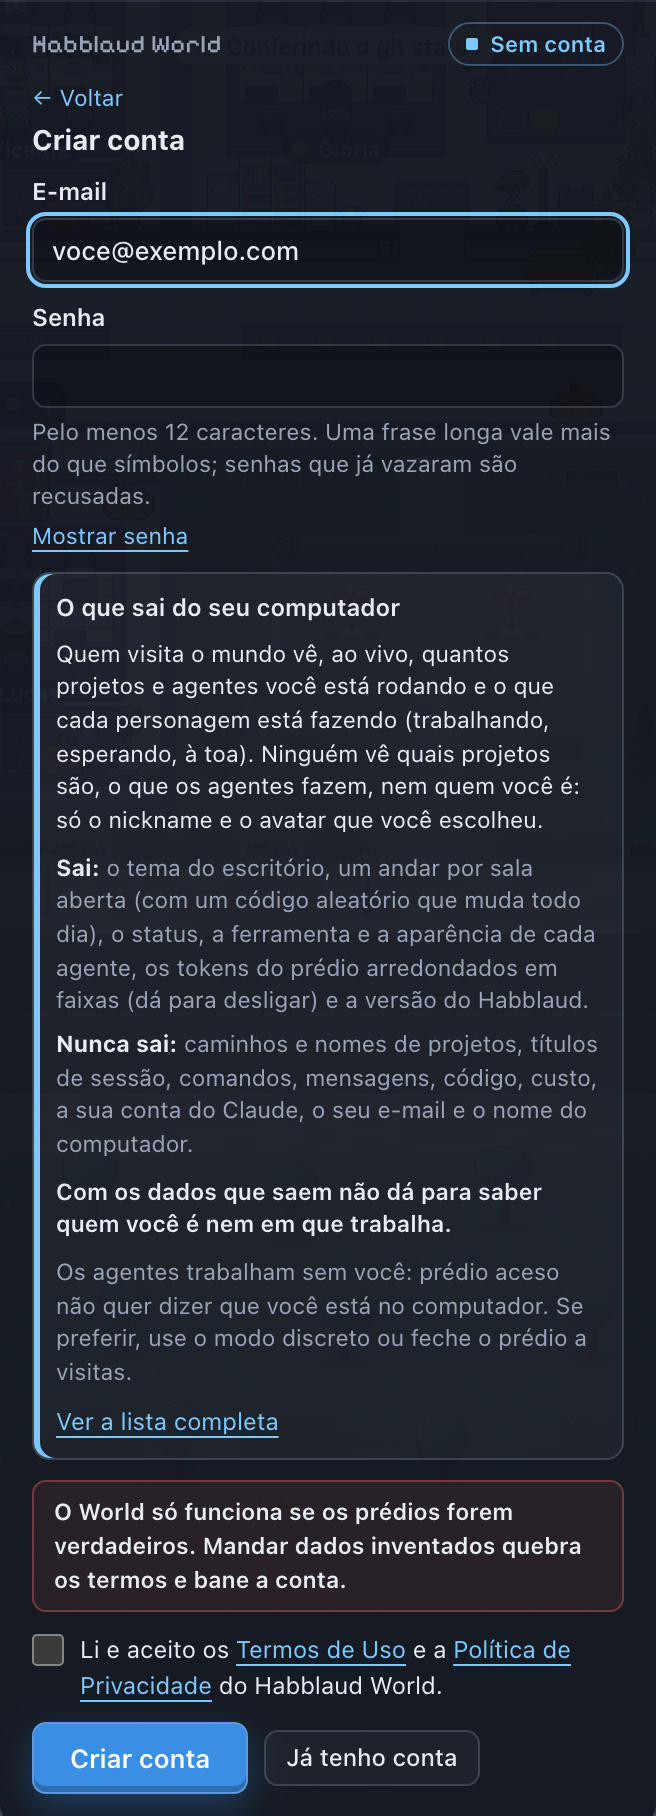
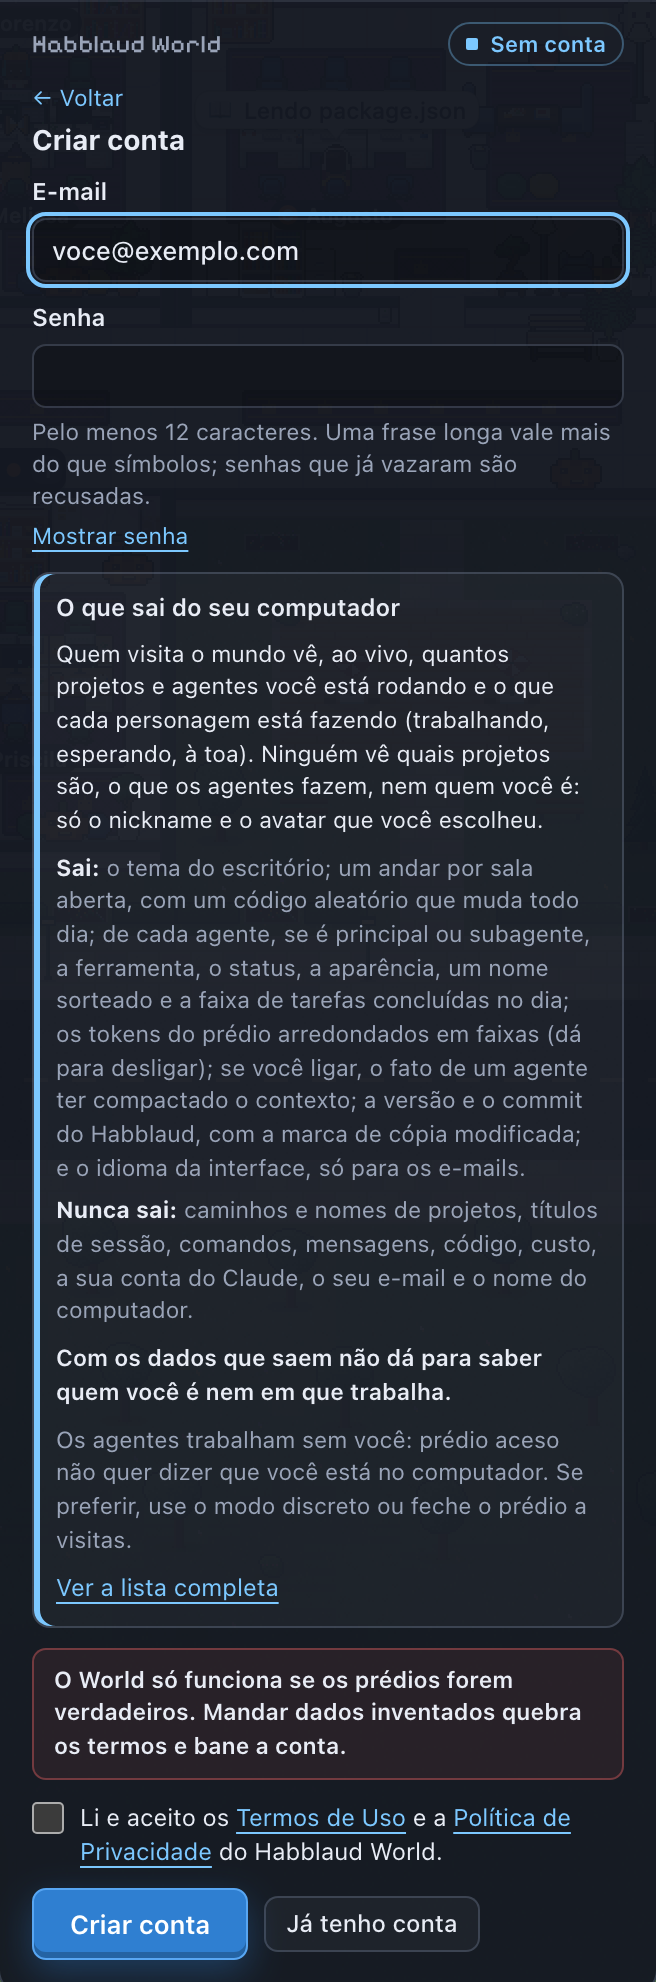
World: resumo de privacidade com tudo o que sai
A linha "Sai:" da tela do cadastro (ao lado do aceite dos termos) passa a listar tudo o que a seção 3.1 do plano
manda: se cada agente é principal ou subagente, o nome sorteado, a faixa de tarefas do dia, a compactação
(opcional), o commit do build com a marca de cópia modificada e o idioma da interface (só para os e-mails).
Captura do cadastro refeita.

Claude-Session: https://claude.ai/code/session_0184odBfMtHbNdi3CwshGHuK

Changed region(s): [[0.0305, 0.0, 0.9756, 1.0], [0.7012, 0.0, 0.9451, 0.0308], [0.2439, 0.0, 0.3354, 0.0308]]

diff --git a/shared/locales/fr.ts b/shared/locales/fr.ts
@@ -2676,7 +2676,7 @@ export const FR: Readonly<Record<string, string>> = {
   "O que sai do seu computador": "Ce qui quitte votre ordinateur",
   "Quem visita o mundo vê, ao vivo, quantos projetos e agentes você está rodando e o que cada personagem está fazendo (trabalhando, esperando, à toa). Ninguém vê quais projetos são, o que os agentes fazem, nem quem você é: só o nickname e o avatar que você escolheu.": "Les visiteurs du monde voient, en direct, combien de projets et d'agents vous faites tourner et ce que fait chaque personnage (au travail, en attente, inactif). Personne ne voit de quels projets il s'agit, ce que font les agents, ni qui vous êtes : seulement le pseudo et l'avatar que vous avez choisis.",
   "Sai:": "Envoyé :",
-  "o tema do escritório, um andar por sala aberta (com um código aleatório que muda todo dia), o status, a ferramenta e a aparência de cada agente, os tokens do prédio arredondados em faixas (dá para desligar) e a versão do Habblaud.": "le thème du bureau, un étage par salle ouverte (avec un code aléatoire qui change chaque jour), le statut, l'outil et l'apparence de chaque agent, les tokens de l'immeuble arrondis par tranches (désactivable) et la version de Habblaud.",
+  "o tema do escritório; um andar por sala aberta, com um código aleatório que muda todo dia; de cada agente, se é principal ou subagente, a ferramenta, o status, a aparência, um nome sorteado e a faixa de tarefas concluídas no dia; os tokens do prédio arredondados em faixas (dá para desligar); se você ligar, o fato de um agente ter compactado o contexto; a versão e o commit do Habblaud, com a marca de cópia modificada; e o idioma da interface, só para os e-mails.": "le thème du bureau ; un étage par salle ouverte, avec un code aléatoire qui change chaque jour ; pour chaque agent, s'il est principal ou sous-agent, son outil, son statut, son apparence, un nom tiré au sort et la tranche de tâches terminées dans la journée ; les tokens de l'immeuble arrondis par tranches (désactivable) ; si vous l'activez, le fait qu'un agent a compacté son contexte ; la version et le commit de Habblaud, avec l'indication de copie modifiée ; et la langue de l'interface, uniquement pour les e-mails.",
   "Nunca sai:": "Jamais envoyé :",
   "caminhos e nomes de projetos, títulos de sessão, comandos, mensagens, código, custo, a sua conta do Claude, o seu e-mail e o nome do computador.": "chemins et noms de projets, titres de session, commandes, messages, code, coût, votre compte Claude, votre e-mail et le nom de l'ordinateur.",
   "Com os dados que saem não dá para saber quem você é nem em que trabalha.": "Avec les données envoyées, impossible de savoir qui vous êtes ni sur quoi vous travaillez.",

diff --git a/shared/locales/es.ts b/shared/locales/es.ts
@@ -2660,7 +2660,7 @@ export const ES: Readonly<Record<string, string>> = {
   "O que sai do seu computador": "Qué sale de tu equipo",
   "Quem visita o mundo vê, ao vivo, quantos projetos e agentes você está rodando e o que cada personagem está fazendo (trabalhando, esperando, à toa). Ninguém vê quais projetos são, o que os agentes fazem, nem quem você é: só o nickname e o avatar que você escolheu.": "Quien visita el mundo ve, en vivo, cuántos proyectos y agentes estás ejecutando y qué está haciendo cada personaje (trabajando, esperando, sin hacer nada). Nadie ve qué proyectos son, qué hacen los agentes ni quién eres: solo el nickname y el avatar que elegiste.",
   "Sai:": "Sale:",
-  "o tema do escritório, um andar por sala aberta (com um código aleatório que muda todo dia), o status, a ferramenta e a aparência de cada agente, os tokens do prédio arredondados em faixas (dá para desligar) e a versão do Habblaud.": "el tema de la oficina, un piso por sala abierta (con un código aleatorio que cambia todos los días), el estado, la herramienta y la apariencia de cada agente, los tokens del edificio redondeados por rangos (se puede desactivar) y la versión de Habblaud.",
+  "o tema do escritório; um andar por sala aberta, com um código aleatório que muda todo dia; de cada agente, se é principal ou subagente, a ferramenta, o status, a aparência, um nome sorteado e a faixa de tarefas concluídas no dia; os tokens do prédio arredondados em faixas (dá para desligar); se você ligar, o fato de um agente ter compactado o contexto; a versão e o commit do Habblaud, com a marca de cópia modificada; e o idioma da interface, só para os e-mails.": "el tema de la oficina; un piso por sala abierta, con un código aleatorio que cambia todos los días; de cada agente, si es principal o subagente, la herramienta, el estado, la apariencia, un nombre sorteado y el rango de tareas terminadas en el día; los tokens del edificio redondeados por rangos (se puede desactivar); si lo activas, el hecho de que un agente compactó el contexto; la versión y el commit de Habblaud, con la marca de copia modificada; y el idioma de la interfaz, solo para los correos.",
   "Nunca sai:": "Nunca sale:",
   "caminhos e nomes de projetos, títulos de sessão, comandos, mensagens, código, custo, a sua conta do Claude, o seu e-mail e o nome do computador.": "rutas y nombres de proyectos, títulos de sesión, comandos, mensajes, código, costo, tu cuenta de Claude, tu correo y el nombre del equipo.",
   "Com os dados que saem não dá para saber quem você é nem em que trabalha.": "Con los datos que salen no se puede saber quién eres ni en qué trabajas.",

diff --git a/shared/locales/en.ts b/shared/locales/en.ts
@@ -2660,7 +2660,7 @@ export const EN: Readonly<Record<string, string>> = {
   "O que sai do seu computador": "What leaves your computer",
   "Quem visita o mundo vê, ao vivo, quantos projetos e agentes você está rodando e o que cada personagem está fazendo (trabalhando, esperando, à toa). Ninguém vê quais projetos são, o que os agentes fazem, nem quem você é: só o nickname e o avatar que você escolheu.": "People visiting the world see, live, how many projects and agents you are running and what each character is doing (working, waiting, idle). Nobody sees which projects they are, what the agents are doing, or who you are: only the nickname and the avatar you chose.",
   "Sai:": "Sent:",
-  "o tema do escritório, um andar por sala aberta (com um código aleatório que muda todo dia), o status, a ferramenta e a aparência de cada agente, os tokens do prédio arredondados em faixas (dá para desligar) e a versão do Habblaud.": "the office theme, one floor per open room (with a random code that changes every day), each agent's status, tool and appearance, the building's tokens rounded into ranges (can be turned off) and the Habblaud version.",
+  "o tema do escritório; um andar por sala aberta, com um código aleatório que muda todo dia; de cada agente, se é principal ou subagente, a ferramenta, o status, a aparência, um nome sorteado e a faixa de tarefas concluídas no dia; os tokens do prédio arredondados em faixas (dá para desligar); se você ligar, o fato de um agente ter compactado o contexto; a versão e o commit do Habblaud, com a marca de cópia modificada; e o idioma da interface, só para os e-mails.": "the office theme; one floor per open room, with a random code that changes every day; for each agent, whether it's a main agent or a subagent, its tool, status, appearance, a name drawn at random and the range of tasks completed that day; the building's tokens rounded into ranges (can be turned off); if you turn it on, the fact that an agent compacted its context; the Habblaud version and build commit, with the modified-copy flag; and the interface language, only for emails.",
   "Nunca sai:": "Never sent:",
   "caminhos e nomes de projetos, títulos de sessão, comandos, mensagens, código, custo, a sua conta do Claude, o seu e-mail e o nome do computador.": "project paths and names, session titles, commands, messages, code, cost, your Claude account, your email and the computer's name.",
   "Com os dados que saem não dá para saber quem você é nem em que trabalha.": "From the data that is sent, nobody can tell who you are or what you work on.",

diff --git a/client/src/ui/world/settings-world.ts b/client/src/ui/world/settings-world.ts
@@ -506,7 +506,7 @@ export class WorldSettingsGroup {
       h(
         'ul',
         { class: 'ui-world__list' },
-        h('li', {}, h('strong', { text: tr('Sai:') }), ' ', tr('o tema do escritório, um andar por sala aberta (com um código aleatório que muda todo dia), o status, a ferramenta e a aparência de cada agente, os tokens do prédio arredondados em faixas (dá para desligar) e a versão do Habblaud.')),
+        h('li', {}, h('strong', { text: tr('Sai:') }), ' ', tr('o tema do escritório; um andar por sala aberta, com um código aleatório que muda todo dia; de cada agente, se é principal ou subagente, a ferramenta, o status, a aparência, um nome sorteado e a faixa de tarefas concluídas no dia; os tokens do prédio arredondados em faixas (dá para desligar); se você ligar, o fato de um agente ter compactado o contexto; a versão e o commit do Habblaud, com a marca de cópia modificada; e o idioma da interface, só para os e-mails.')),
         h('li', {}, h('strong', { text: tr('Nunca sai:') }), ' ', tr('caminhos e nomes de projetos, títulos de sessão, comandos, mensagens, código, custo, a sua conta do Claude, o seu e-mail e o nome do computador.')),
       ),
       para('ui-world__key', tr('Com os dados que saem não dá para saber quem você é nem em que trabalha.')),
